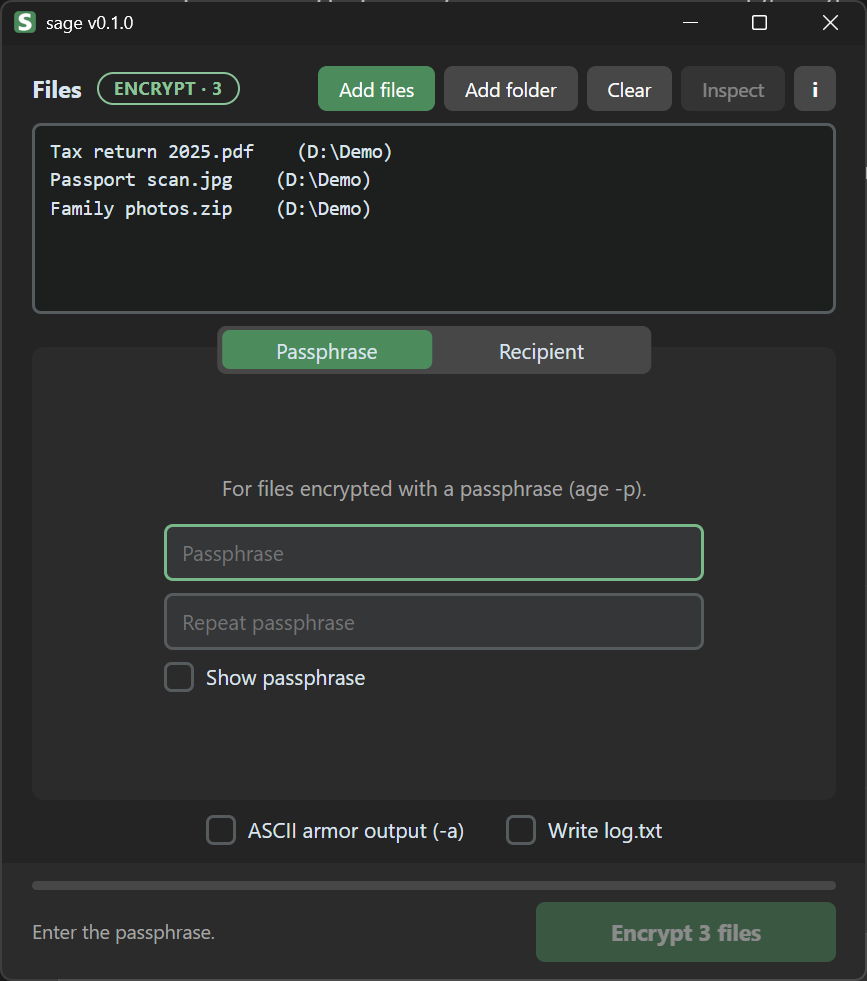
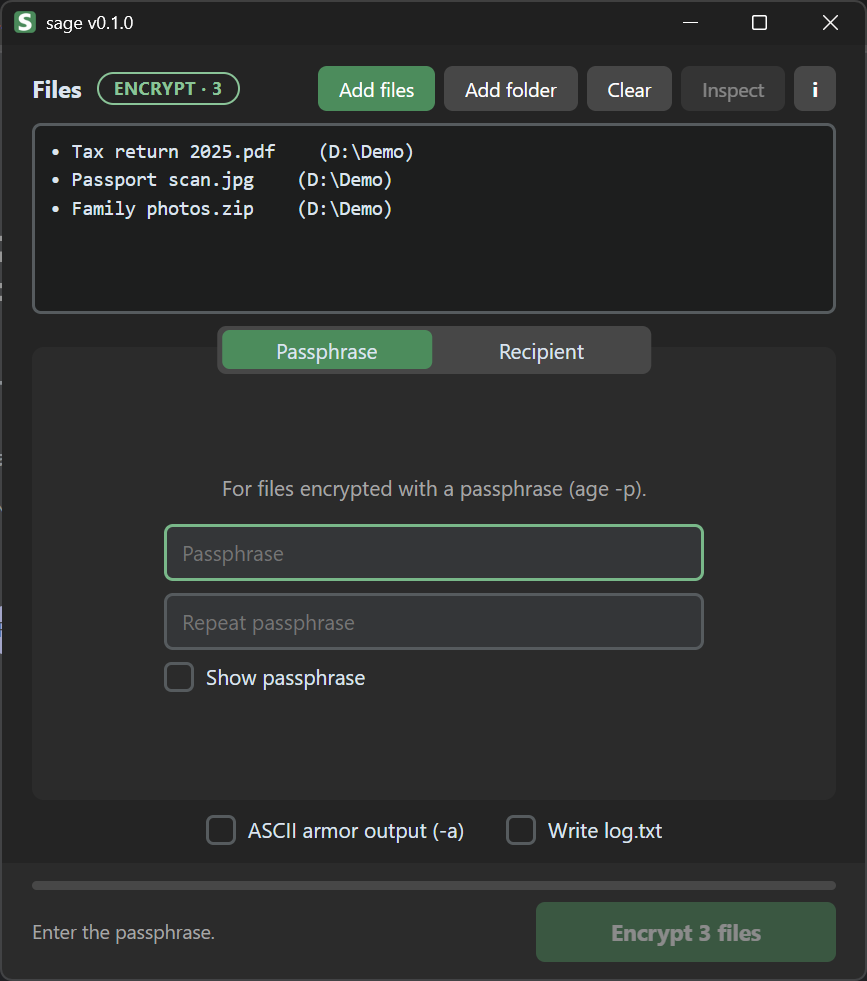
Log box: a bullet per line, wrapped text indented under it; new README screenshots

Changed region(s): [[0.0623, 0.1223, 0.4671, 0.2446], [0.9965, 0.1529, 1.0, 0.1835]]

diff --git a/frontend/src/main.ts b/frontend/src/main.ts
@@ -30,13 +30,31 @@ let lastSummary = "";
 
 // ---------------------------------------------------------------- the box
 
+// Each line of the box is its own block: a bullet, and wrapped text indented under
+// it (CSS .ln), so it's clear where a line ends. A line starting with spaces is a
+// sub-item. The bullets are CSS, so copying the box gives the plain lines.
+function addLines(text: string) {
+    for (const raw of text.split("\n")) {
+        const div = document.createElement("div");
+        const body = raw.trim();
+        if (!body) {
+            div.className = "ln blank";
+        } else {
+            div.className = /^\s/.test(raw) ? "ln sub" : "ln";
+            div.textContent = body;
+        }
+        box.append(div);
+    }
+}
+
 function setBox(text: string) {
-    box.textContent = text;
+    box.replaceChildren();
+    if (text) addLines(text);
     box.scrollTop = box.scrollHeight;
 }
 
 function appendBox(line: string) {
-    box.textContent += (box.textContent ? "\n" : "") + line;
+    addLines(line);
     box.scrollTop = box.scrollHeight;
 }
 

diff --git a/frontend/src/style.css b/frontend/src/style.css
@@ -156,6 +156,16 @@ input.mono { font-family: var(--mono); font-size: 13px; }
     word-break: break-word;
     user-select: text;
 }
+/* One block per line: a bullet, and wrapped text indented under the first word. */
+.box .ln {
+    padding-left: 2ch;
+    text-indent: -2ch;
+}
+/* "\2022 " is the bullet escape (its trailing space ends the escape); the second space follows it. */
+.box .ln::before { content: "\2022  "; white-space: pre; }
+.box .ln.sub { margin-left: 2ch; }
+.box .ln.blank { height: 1.45em; }
+.box .ln.blank::before { content: none; }
 /* Wails adds this class while files are dragged over a drop target. */
 .files.file-drop-target-active .box { border-color: var(--focus); }
 
